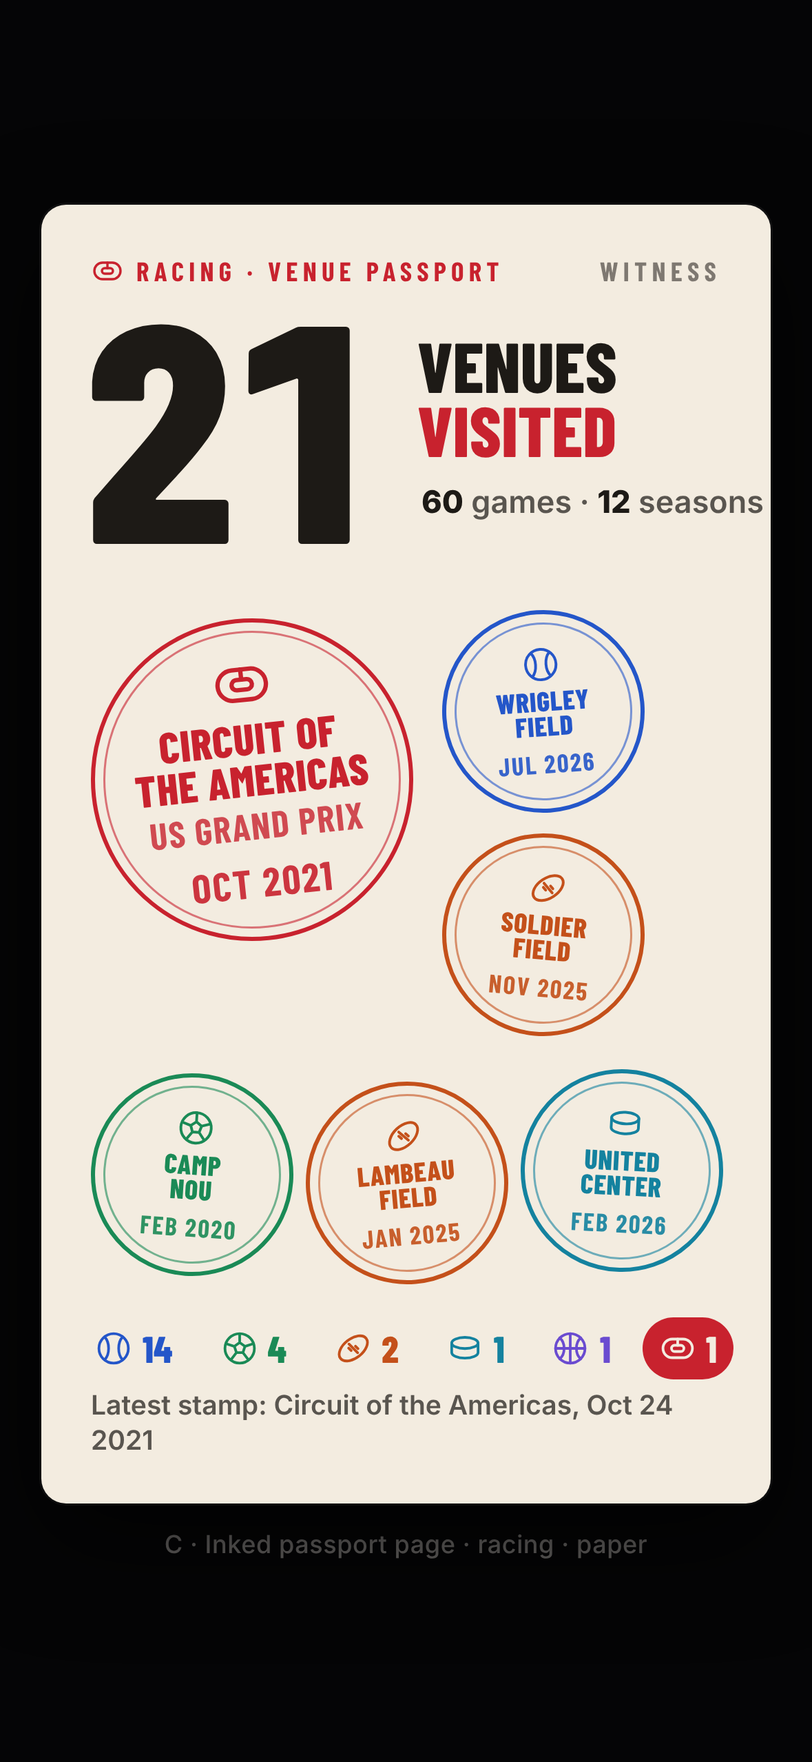
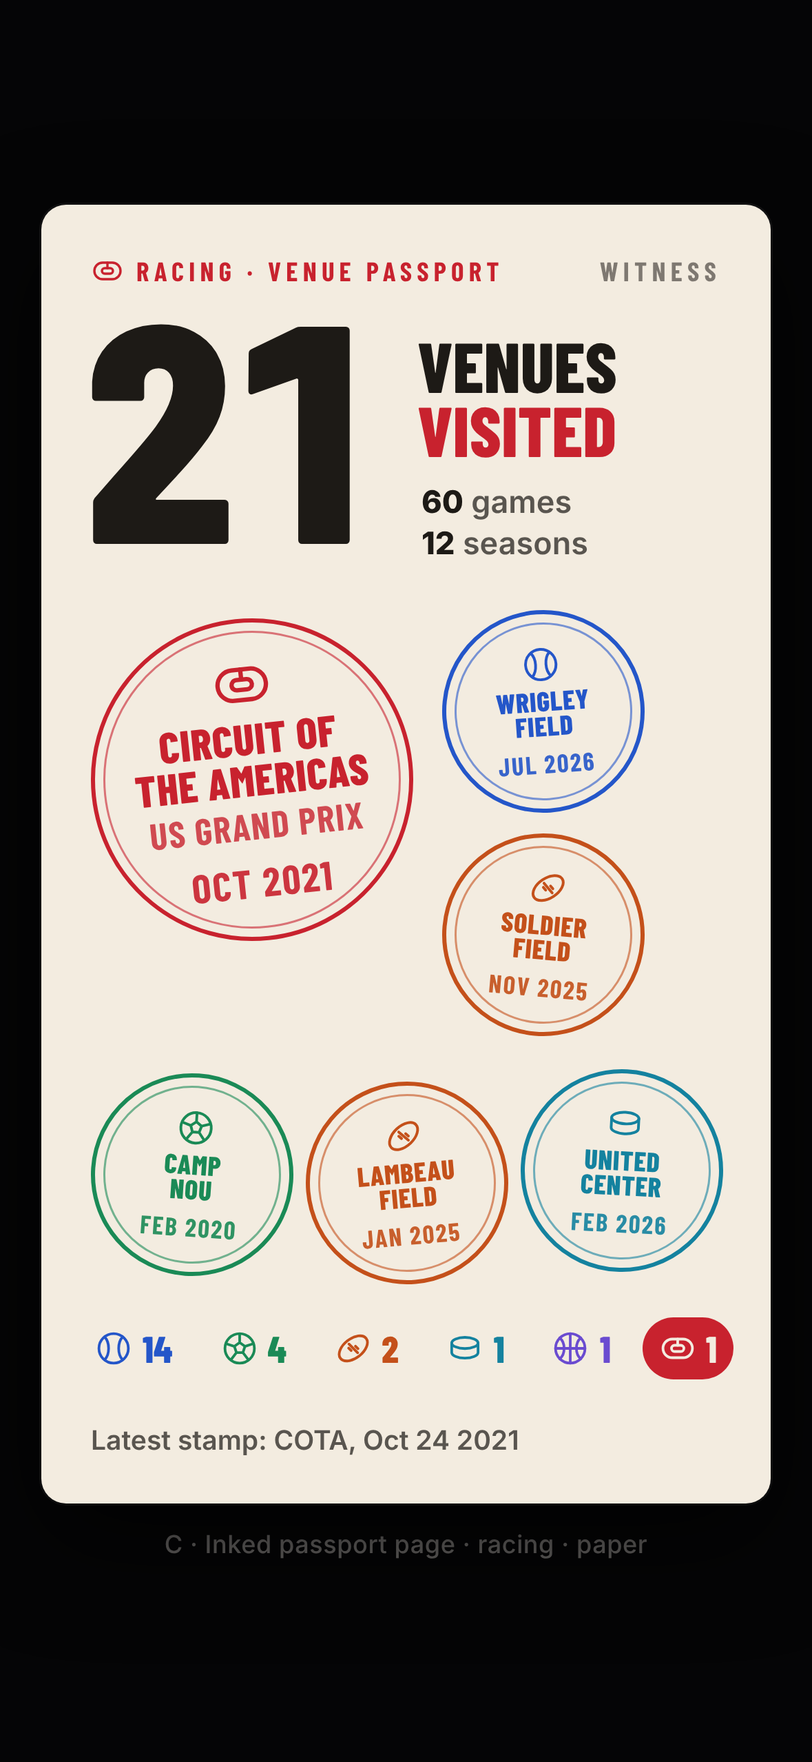
App Store screens: fix the last step and apply the clean status bar after the simulator is ready
Claude-Session: https://claude.ai/code/session_01YKCsRGYnDsF5Pryete24Wa

diff --git a/mockups/share-variants/features/passport2/v3-basketball-chips-dark.html b/mockups/share-variants/features/passport2/v3-basketball-chips-dark.html
@@ -26,18 +26,18 @@ body.phone{display:flex;flex-direction:column;align-items:center;justify-content
 
 .card{background:var(--bg);color:var(--fg)}
 .top{color:var(--mut)} .top .sp{color:var(--a)}
-.big{position:absolute;left:18px;top:46px;font:800 150px/.8 var(--f-cond);letter-spacing:-6px;font-variant-numeric:tabular-nums}
-.of{position:absolute;left:182px;top:62px;font:800 34px/.92 var(--f-cond);text-transform:uppercase}
+.big{position:absolute;left:18px;top:50px;font:800 118px/.8 var(--f-cond);letter-spacing:-5px;font-variant-numeric:tabular-nums}
+.of{position:absolute;left:150px;top:54px;font:800 30px/.92 var(--f-cond);text-transform:uppercase}
 .of span{color:var(--a)}
-.gm{position:absolute;left:184px;top:134px;font:600 15px/1.3 var(--f-ui);color:var(--mut2)}
+.gm{position:absolute;left:152px;top:116px;font:600 14px/1.3 var(--f-ui);color:var(--mut2)}
 .gm b{color:var(--fg)}
-.ft{position:absolute;left:18px;right:18px;top:190px;border-radius:12px;background:var(--a);color:var(--on);padding:14px 16px;display:flex;gap:14px;align-items:center}
+.ft{position:absolute;left:18px;right:18px;top:166px;border-radius:12px;background:var(--a);color:var(--on);padding:12px 16px;display:flex;gap:14px;align-items:center}
 .ft .ic{font-size:44px;stroke-width:1.5}
 .ft .e{font:700 12px/1 var(--f-cond);letter-spacing:2.2px;text-transform:uppercase;opacity:.75}
-.ft .n{font:800 30px/1 var(--f-cond);text-transform:uppercase;margin:6px 0 5px}
-.ft .r{font:700 14px/1.3 var(--f-ui)}
-.chips{position:absolute;left:18px;right:18px;top:312px;display:flex;flex-wrap:wrap;gap:6px 5px}
-.chip{display:flex;align-items:center;gap:5px;height:28px;padding:0 9px 0 7px;border-radius:7px;background:var(--cb);color:var(--fg);font:700 14.5px/1 var(--f-cond);letter-spacing:.5px;text-transform:uppercase;box-shadow:inset 0 0 0 1.2px var(--cc);white-space:nowrap}
+.ft .n{font:800 28px/1 var(--f-cond);text-transform:uppercase;margin:5px 0 4px}
+.ft .r{font:700 13.5px/1.3 var(--f-ui)}
+.chips{position:absolute;left:18px;right:18px;top:288px;display:flex;flex-wrap:wrap;gap:6px 5px}
+.chip{display:flex;align-items:center;gap:5px;height:26px;padding:0 8px 0 6px;border-radius:7px;background:var(--cb);color:var(--fg);font:700 14px/1 var(--f-cond);letter-spacing:.4px;text-transform:uppercase;box-shadow:inset 0 0 0 1.2px var(--cc);white-space:nowrap}
 .chip .ic{font-size:15px;color:var(--cc)}
 .chip.pri{background:var(--cc);color:var(--on)}.chip.pri .ic{color:var(--on)}
 .foot{position:absolute;left:24px;right:24px;bottom:22px;display:flex;justify-content:space-between;align-items:flex-end;font:600 13px/1.3 var(--f-ui);color:var(--mut2)}
@@ -55,10 +55,10 @@ body.phone{display:flex;flex-direction:column;align-items:center;justify-content
 <div class="card" style="--a:#a78bfa;--bg:#0a0a0c;--fg:#fff;--mut:rgba(255,255,255,.6);--mut2:rgba(255,255,255,.72);--on:#0a0a0c">
 <div class="top"><span class="sp"><svg class="ic"><use href="#i-basketball"/></svg>Basketball · Venue passport</span><span>Witness</span></div>
 <div class="big">21</div><div class="of">Venues<br><span>visited</span></div>
-<div class="gm"><b>60</b> games · <b>12</b> seasons</div>
+<div class="gm"><b>60</b> games<br><b>12</b> seasons</div>
 <div class="ft"><svg class="ic"><use href="#i-basketball"/></svg><div><div class="e">Latest basketball stamp</div><div class="n">United Center</div><div class="r">Bulls 112, Heat 109<br>Chicago · Feb 15 2026</div></div></div>
 <div class="chips"><span class="chip" style="--cc:#4d8dff;--cb:#4d8dff29"><svg class="ic" style="color:#4d8dff"><use href="#i-baseball"/></svg>Wrigley Field</span><span class="chip" style="--cc:#4d8dff;--cb:#4d8dff29"><svg class="ic" style="color:#4d8dff"><use href="#i-baseball"/></svg>Rate Field</span><span class="chip" style="--cc:#4d8dff;--cb:#4d8dff29"><svg class="ic" style="color:#4d8dff"><use href="#i-baseball"/></svg>American Family Field</span><span class="chip" style="--cc:#4d8dff;--cb:#4d8dff29"><svg class="ic" style="color:#4d8dff"><use href="#i-baseball"/></svg>Busch Stadium</span><span class="chip" style="--cc:#4d8dff;--cb:#4d8dff29"><svg class="ic" style="color:#4d8dff"><use href="#i-baseball"/></svg>Target Field</span><span class="chip" style="--cc:#4d8dff;--cb:#4d8dff29"><svg class="ic" style="color:#4d8dff"><use href="#i-baseball"/></svg>Fenway Park</span><span class="chip" style="--cc:#4d8dff;--cb:#4d8dff29"><svg class="ic" style="color:#4d8dff"><use href="#i-baseball"/></svg>Comerica Park</span><span class="chip" style="--cc:#4d8dff;--cb:#4d8dff29"><svg class="ic" style="color:#4d8dff"><use href="#i-baseball"/></svg>Progressive Field</span><span class="chip" style="--cc:#4d8dff;--cb:#4d8dff29"><svg class="ic" style="color:#4d8dff"><use href="#i-baseball"/></svg>PNC Park</span><span class="chip" style="--cc:#4d8dff;--cb:#4d8dff29"><svg class="ic" style="color:#4d8dff"><use href="#i-baseball"/></svg>Kauffman Stadium</span><span class="chip" style="--cc:#4d8dff;--cb:#4d8dff29"><svg class="ic" style="color:#4d8dff"><use href="#i-baseball"/></svg>Great American Ball Park</span><span class="chip" style="--cc:#4d8dff;--cb:#4d8dff29"><svg class="ic" style="color:#4d8dff"><use href="#i-baseball"/></svg>Yankee Stadium</span><span class="chip" style="--cc:#4d8dff;--cb:#4d8dff29"><svg class="ic" style="color:#4d8dff"><use href="#i-baseball"/></svg>Dodger Stadium</span><span class="chip" style="--cc:#4d8dff;--cb:#4d8dff29"><svg class="ic" style="color:#4d8dff"><use href="#i-baseball"/></svg>Oracle Park</span><span class="chip" style="--cc:#2fc27d;--cb:#2fc27d29"><svg class="ic" style="color:#2fc27d"><use href="#i-soccer"/></svg>Signal Iduna Park</span><span class="chip" style="--cc:#2fc27d;--cb:#2fc27d29"><svg class="ic" style="color:#2fc27d"><use href="#i-soccer"/></svg>Camp Nou</span><span class="chip" style="--cc:#2fc27d;--cb:#2fc27d29"><svg class="ic" style="color:#2fc27d"><use href="#i-soccer"/></svg>Bernabéu</span><span class="chip" style="--cc:#f0702e;--cb:#f0702e29"><svg class="ic" style="color:#f0702e"><use href="#i-football"/></svg><svg class="ic" style="color:#2fc27d"><use href="#i-soccer"/></svg>Soldier Field</span><span class="chip" style="--cc:#f0702e;--cb:#f0702e29"><svg class="ic" style="color:#f0702e"><use href="#i-football"/></svg>Lambeau Field</span><span class="chip" style="--cc:#ff4a55;--cb:#ff4a5529"><svg class="ic" style="color:#ff4a55"><use href="#i-racing"/></svg>COTA</span></div>
-<div class="foot"><span>Marked by sport, 14 baseball, 4 soccer, 2 football</span><span class="w"></span></div></div>
+</div>
 <div class="cap">B · Grouped venue stamps · basketball · dark</div>
 <script src="../../../kit/kit.js"></script>
 </body></html>

diff --git a/mockups/share-variants/features/passport2/v4-hockey-chips-paper.html b/mockups/share-variants/features/passport2/v4-hockey-chips-paper.html
@@ -26,18 +26,18 @@ body.phone{display:flex;flex-direction:column;align-items:center;justify-content
 
 .card{background:var(--bg);color:var(--fg)}
 .top{color:var(--mut)} .top .sp{color:var(--a)}
-.big{position:absolute;left:18px;top:46px;font:800 150px/.8 var(--f-cond);letter-spacing:-6px;font-variant-numeric:tabular-nums}
-.of{position:absolute;left:182px;top:62px;font:800 34px/.92 var(--f-cond);text-transform:uppercase}
+.big{position:absolute;left:18px;top:50px;font:800 118px/.8 var(--f-cond);letter-spacing:-5px;font-variant-numeric:tabular-nums}
+.of{position:absolute;left:150px;top:54px;font:800 30px/.92 var(--f-cond);text-transform:uppercase}
 .of span{color:var(--a)}
-.gm{position:absolute;left:184px;top:134px;font:600 15px/1.3 var(--f-ui);color:var(--mut2)}
+.gm{position:absolute;left:152px;top:116px;font:600 14px/1.3 var(--f-ui);color:var(--mut2)}
 .gm b{color:var(--fg)}
-.ft{position:absolute;left:18px;right:18px;top:190px;border-radius:12px;background:var(--a);color:var(--on);padding:14px 16px;display:flex;gap:14px;align-items:center}
+.ft{position:absolute;left:18px;right:18px;top:166px;border-radius:12px;background:var(--a);color:var(--on);padding:12px 16px;display:flex;gap:14px;align-items:center}
 .ft .ic{font-size:44px;stroke-width:1.5}
 .ft .e{font:700 12px/1 var(--f-cond);letter-spacing:2.2px;text-transform:uppercase;opacity:.75}
-.ft .n{font:800 30px/1 var(--f-cond);text-transform:uppercase;margin:6px 0 5px}
-.ft .r{font:700 14px/1.3 var(--f-ui)}
-.chips{position:absolute;left:18px;right:18px;top:312px;display:flex;flex-wrap:wrap;gap:6px 5px}
-.chip{display:flex;align-items:center;gap:5px;height:28px;padding:0 9px 0 7px;border-radius:7px;background:var(--cb);color:var(--fg);font:700 14.5px/1 var(--f-cond);letter-spacing:.5px;text-transform:uppercase;box-shadow:inset 0 0 0 1.2px var(--cc);white-space:nowrap}
+.ft .n{font:800 28px/1 var(--f-cond);text-transform:uppercase;margin:5px 0 4px}
+.ft .r{font:700 13.5px/1.3 var(--f-ui)}
+.chips{position:absolute;left:18px;right:18px;top:288px;display:flex;flex-wrap:wrap;gap:6px 5px}
+.chip{display:flex;align-items:center;gap:5px;height:26px;padding:0 8px 0 6px;border-radius:7px;background:var(--cb);color:var(--fg);font:700 14px/1 var(--f-cond);letter-spacing:.4px;text-transform:uppercase;box-shadow:inset 0 0 0 1.2px var(--cc);white-space:nowrap}
 .chip .ic{font-size:15px;color:var(--cc)}
 .chip.pri{background:var(--cc);color:var(--on)}.chip.pri .ic{color:var(--on)}
 .foot{position:absolute;left:24px;right:24px;bottom:22px;display:flex;justify-content:space-between;align-items:flex-end;font:600 13px/1.3 var(--f-ui);color:var(--mut2)}
@@ -55,10 +55,10 @@ body.phone{display:flex;flex-direction:column;align-items:center;justify-content
 <div class="card" style="--a:#14829f;--bg:var(--paper);--fg:var(--paper-ink);--mut:rgba(29,26,22,.55);--mut2:rgba(29,26,22,.72);--on:#f3ece0">
 <div class="top"><span class="sp"><svg class="ic"><use href="#i-hockey"/></svg>Hockey · Venue passport</span><span>Witness</span></div>
 <div class="big">21</div><div class="of">Venues<br><span>visited</span></div>
-<div class="gm"><b>60</b> games · <b>12</b> seasons</div>
+<div class="gm"><b>60</b> games<br><b>12</b> seasons</div>
 <div class="ft"><svg class="ic"><use href="#i-hockey"/></svg><div><div class="e">Latest hockey stamp</div><div class="n">United Center</div><div class="r">Blackhawks 4, Blues 1<br>Chicago · Mar 2 2025</div></div></div>
 <div class="chips"><span class="chip" style="--cc:#2456c9;--cb:#2456c91f"><svg class="ic" style="color:#2456c9"><use href="#i-baseball"/></svg>Wrigley Field</span><span class="chip" style="--cc:#2456c9;--cb:#2456c91f"><svg class="ic" style="color:#2456c9"><use href="#i-baseball"/></svg>Rate Field</span><span class="chip" style="--cc:#2456c9;--cb:#2456c91f"><svg class="ic" style="color:#2456c9"><use href="#i-baseball"/></svg>American Family Field</span><span class="chip" style="--cc:#2456c9;--cb:#2456c91f"><svg class="ic" style="color:#2456c9"><use href="#i-baseball"/></svg>Busch Stadium</span><span class="chip" style="--cc:#2456c9;--cb:#2456c91f"><svg class="ic" style="color:#2456c9"><use href="#i-baseball"/></svg>Target Field</span><span class="chip" style="--cc:#2456c9;--cb:#2456c91f"><svg class="ic" style="color:#2456c9"><use href="#i-baseball"/></svg>Fenway Park</span><span class="chip" style="--cc:#2456c9;--cb:#2456c91f"><svg class="ic" style="color:#2456c9"><use href="#i-baseball"/></svg>Comerica Park</span><span class="chip" style="--cc:#2456c9;--cb:#2456c91f"><svg class="ic" style="color:#2456c9"><use href="#i-baseball"/></svg>Progressive Field</span><span class="chip" style="--cc:#2456c9;--cb:#2456c91f"><svg class="ic" style="color:#2456c9"><use href="#i-baseball"/></svg>PNC Park</span><span class="chip" style="--cc:#2456c9;--cb:#2456c91f"><svg class="ic" style="color:#2456c9"><use href="#i-baseball"/></svg>Kauffman Stadium</span><span class="chip" style="--cc:#2456c9;--cb:#2456c91f"><svg class="ic" style="color:#2456c9"><use href="#i-baseball"/></svg>Great American Ball Park</span><span class="chip" style="--cc:#2456c9;--cb:#2456c91f"><svg class="ic" style="color:#2456c9"><use href="#i-baseball"/></svg>Yankee Stadium</span><span class="chip" style="--cc:#2456c9;--cb:#2456c91f"><svg class="ic" style="color:#2456c9"><use href="#i-baseball"/></svg>Dodger Stadium</span><span class="chip" style="--cc:#2456c9;--cb:#2456c91f"><svg class="ic" style="color:#2456c9"><use href="#i-baseball"/></svg>Oracle Park</span><span class="chip" style="--cc:#1a8a56;--cb:#1a8a561f"><svg class="ic" style="color:#1a8a56"><use href="#i-soccer"/></svg>Signal Iduna Park</span><span class="chip" style="--cc:#1a8a56;--cb:#1a8a561f"><svg class="ic" style="color:#1a8a56"><use href="#i-soccer"/></svg>Camp Nou</span><span class="chip" style="--cc:#1a8a56;--cb:#1a8a561f"><svg class="ic" style="color:#1a8a56"><use href="#i-soccer"/></svg>Bernabéu</span><span class="chip" style="--cc:#c4501a;--cb:#c4501a1f"><svg class="ic" style="color:#c4501a"><use href="#i-football"/></svg><svg class="ic" style="color:#1a8a56"><use href="#i-soccer"/></svg>Soldier Field</span><span class="chip" style="--cc:#c4501a;--cb:#c4501a1f"><svg class="ic" style="color:#c4501a"><use href="#i-football"/></svg>Lambeau Field</span><span class="chip" style="--cc:#c8222e;--cb:#c8222e1f"><svg class="ic" style="color:#c8222e"><use href="#i-racing"/></svg>COTA</span></div>
-<div class="foot"><span>Marked by sport, 14 baseball, 4 soccer, 2 football</span><span class="w"></span></div></div>
+</div>
 <div class="cap">B · Grouped venue stamps · hockey · paper</div>
 <script src="../../../kit/kit.js"></script>
 </body></html>

diff --git a/mockups/share-variants/features/passport2/v6-mixed-inked-navy.html b/mockups/share-variants/features/passport2/v6-mixed-inked-navy.html
@@ -47,12 +47,12 @@ body.phone{display:flex;flex-direction:column;align-items:center;justify-content
 <symbol id="i-hockey" viewBox="0 0 24 24"><ellipse cx="12" cy="8.5" rx="8.5" ry="3.6"/><path d="M3.5 8.5v6.2c0 2 3.8 3.6 8.5 3.6s8.5-1.6 8.5-3.6V8.5"/></symbol>
 <symbol id="i-racing" viewBox="0 0 24 24"><rect x="2.5" y="6" width="19" height="12" rx="6"/><rect x="8" y="10" width="8" height="4" rx="2"/><path d="M12 6v4"/></symbol>
 </defs></svg>
-<div class="card" style="--a:#4d8dff;--bg:#0d1a33;--fg:#f4e7c0;--mut:rgba(232,196,106,.8);--mut2:rgba(244,231,192,.8)"><div class="frame"></div>
-<div class="top"><span class="sp"><svg class="ic"><use href="#i-baseball"/></svg>Baseball · Venue passport</span><span>Witness</span></div>
+<div class="card" style="--a:#e8c46a;--bg:#0d1a33;--fg:#f4e7c0;--mut:rgba(232,196,106,.8);--mut2:rgba(244,231,192,.8)"><div class="frame"></div>
+<div class="top"><span class="sp">All sports · Venue passport</span><span>Witness</span></div>
 <div class="big">21</div><div class="of">Venues<br><span>visited</span></div>
-<div class="gm"><b>60</b> games · <b>12</b> seasons</div>
+<div class="gm"><b>60</b> games<br><b>12</b> seasons</div>
 <div class="st" style="--d:156px;--k:#4d8dff;transform:rotate(-6deg);position:absolute;left:24px;top:200px;"><svg class="ic"><use href="#i-baseball"/></svg><b>Wrigley<br>Field</b><u>18 games</u><i>2014 – 2026</i></div><div class="st" style="--d:98px;--k:#f0702e;transform:rotate(-4deg);position:absolute;left:194px;top:196px;"><svg class="ic"><use href="#i-football"/></svg><b>Soldier<br>Field</b><i>13 games</i></div><div class="st" style="--d:98px;--k:#3cc3ee;transform:rotate(5deg);position:absolute;left:194px;top:304px;"><svg class="ic"><use href="#i-hockey"/></svg><b>United<br>Center</b><i>11 games</i></div><div class="st" style="--d:98px;--k:#2fc27d;transform:rotate(4deg);position:absolute;left:24px;top:420px;"><svg class="ic"><use href="#i-soccer"/></svg><b>Signal<br>Iduna Park</b><i>Nov 2017</i></div><div class="st" style="--d:98px;--k:#2fc27d;transform:rotate(-5deg);position:absolute;left:128px;top:424px;"><svg class="ic"><use href="#i-soccer"/></svg><b>Camp<br>Nou</b><i>Feb 2020</i></div><div class="st" style="--d:98px;--k:#ff4a55;transform:rotate(3deg);position:absolute;left:232px;top:418px;"><svg class="ic"><use href="#i-racing"/></svg><b>Circuit of<br>the Americas</b><i>Oct 2021</i></div>
-<div class="lg"><div class="leg"><div class="pr" style="--c:#4d8dff;--on:#0a0a0c"><svg class="ic"><use href="#i-baseball"/></svg>14</div><div style="--c:#2fc27d;--on:#0a0a0c"><svg class="ic"><use href="#i-soccer"/></svg>4</div><div style="--c:#f0702e;--on:#0a0a0c"><svg class="ic"><use href="#i-football"/></svg>2</div><div style="--c:#3cc3ee;--on:#0a0a0c"><svg class="ic"><use href="#i-hockey"/></svg>1</div><div style="--c:#a78bfa;--on:#0a0a0c"><svg class="ic"><use href="#i-basketball"/></svg>1</div><div style="--c:#ff4a55;--on:#0a0a0c"><svg class="ic"><use href="#i-racing"/></svg>1</div></div></div>
+<div class="lg"><div class="leg"><div style="--c:#4d8dff;--on:#0a0a0c"><svg class="ic"><use href="#i-baseball"/></svg>14</div><div style="--c:#2fc27d;--on:#0a0a0c"><svg class="ic"><use href="#i-soccer"/></svg>4</div><div style="--c:#f0702e;--on:#0a0a0c"><svg class="ic"><use href="#i-football"/></svg>2</div><div style="--c:#3cc3ee;--on:#0a0a0c"><svg class="ic"><use href="#i-hockey"/></svg>1</div><div style="--c:#a78bfa;--on:#0a0a0c"><svg class="ic"><use href="#i-basketball"/></svg>1</div><div style="--c:#ff4a55;--on:#0a0a0c"><svg class="ic"><use href="#i-racing"/></svg>1</div></div></div>
 <div class="foot"><span>Six sports, 21 venues, one passport</span></div></div>
 <div class="cap">C · Inked passport page · mixed sports · navy foil</div>
 <script src="../../../kit/kit.js"></script>

diff --git a/mockups/share-variants/features/passport2/v5-racing-inked-paper.html b/mockups/share-variants/features/passport2/v5-racing-inked-paper.html
@@ -50,10 +50,10 @@ body.phone{display:flex;flex-direction:column;align-items:center;justify-content
 <div class="card" style="--a:#c8222e;--bg:var(--paper);--fg:var(--paper-ink);--mut:rgba(29,26,22,.55);--mut2:rgba(29,26,22,.72)">
 <div class="top"><span class="sp"><svg class="ic"><use href="#i-racing"/></svg>Racing · Venue passport</span><span>Witness</span></div>
 <div class="big">21</div><div class="of">Venues<br><span>visited</span></div>
-<div class="gm"><b>60</b> games · <b>12</b> seasons</div>
+<div class="gm"><b>60</b> games<br><b>12</b> seasons</div>
 <div class="st" style="--d:156px;--k:#c8222e;transform:rotate(-6deg);position:absolute;left:24px;top:200px;"><svg class="ic"><use href="#i-racing"/></svg><b>Circuit of<br>the Americas</b><u>US Grand Prix</u><i>Oct 2021</i></div><div class="st" style="--d:98px;--k:#2456c9;transform:rotate(-4deg);position:absolute;left:194px;top:196px;"><svg class="ic"><use href="#i-baseball"/></svg><b>Wrigley<br>Field</b><i>Jul 2026</i></div><div class="st" style="--d:98px;--k:#c4501a;transform:rotate(5deg);position:absolute;left:194px;top:304px;"><svg class="ic"><use href="#i-football"/></svg><b>Soldier<br>Field</b><i>Nov 2025</i></div><div class="st" style="--d:98px;--k:#1a8a56;transform:rotate(4deg);position:absolute;left:24px;top:420px;"><svg class="ic"><use href="#i-soccer"/></svg><b>Camp<br>Nou</b><i>Feb 2020</i></div><div class="st" style="--d:98px;--k:#c4501a;transform:rotate(-5deg);position:absolute;left:128px;top:424px;"><svg class="ic"><use href="#i-football"/></svg><b>Lambeau<br>Field</b><i>Jan 2025</i></div><div class="st" style="--d:98px;--k:#14829f;transform:rotate(3deg);position:absolute;left:232px;top:418px;"><svg class="ic"><use href="#i-hockey"/></svg><b>United<br>Center</b><i>Feb 2026</i></div>
 <div class="lg"><div class="leg"><div style="--c:#2456c9;--on:#f3ece0"><svg class="ic"><use href="#i-baseball"/></svg>14</div><div style="--c:#1a8a56;--on:#f3ece0"><svg class="ic"><use href="#i-soccer"/></svg>4</div><div style="--c:#c4501a;--on:#f3ece0"><svg class="ic"><use href="#i-football"/></svg>2</div><div style="--c:#14829f;--on:#f3ece0"><svg class="ic"><use href="#i-hockey"/></svg>1</div><div style="--c:#6a4bd0;--on:#f3ece0"><svg class="ic"><use href="#i-basketball"/></svg>1</div><div class="pr" style="--c:#c8222e;--on:#f3ece0"><svg class="ic"><use href="#i-racing"/></svg>1</div></div></div>
-<div class="foot"><span>Latest stamp: Circuit of the Americas, Oct 24 2021</span></div></div>
+<div class="foot"><span>Latest stamp: COTA, Oct 24 2021</span></div></div>
 <div class="cap">C · Inked passport page · racing · paper</div>
 <script src="../../../kit/kit.js"></script>
 </body></html>

diff --git a/mockups/share-variants/features/passport2/v2-football-photo-paper.html b/mockups/share-variants/features/passport2/v2-football-photo-paper.html
@@ -25,16 +25,16 @@ body.phone{display:flex;flex-direction:column;align-items:center;justify-content
 .leg div.pr{background:var(--c);color:var(--on)}
 
 .card{background:var(--paper);color:var(--paper-ink)}
-.ph{position:absolute;left:14px;right:14px;top:14px;height:330px;border-radius:6px;overflow:hidden;box-shadow:0 0 0 1px rgba(29,26,22,.2)}
+.ph{position:absolute;left:14px;right:14px;top:14px;height:290px;border-radius:6px;overflow:hidden;box-shadow:0 0 0 1px rgba(29,26,22,.2)}
 .ph img{width:100%;height:100%;object-fit:cover;object-position:var(--pos)}
 .ph .tag{position:absolute;left:12px;top:12px;right:12px;display:flex;justify-content:space-between;align-items:center;font:700 13px/1 var(--f-cond);letter-spacing:2.4px;text-transform:uppercase;color:#fff;text-shadow:0 1px 8px rgba(0,0,0,.6)}
 .ph .tag .sp{display:flex;gap:6px;align-items:center}.ph .tag .ic{font-size:16px}
-.big{position:absolute;left:18px;top:340px;font:800 168px/.82 var(--f-cond);letter-spacing:-6px;font-variant-numeric:tabular-nums}
-.of{position:absolute;left:196px;top:366px;font:800 36px/.92 var(--f-cond);text-transform:uppercase}
+.big{position:absolute;left:18px;top:312px;font:800 160px/.82 var(--f-cond);letter-spacing:-6px;font-variant-numeric:tabular-nums}
+.of{position:absolute;left:190px;top:334px;font:800 36px/.92 var(--f-cond);text-transform:uppercase}
 .of span{color:var(--a);display:block}
-.gm{position:absolute;left:198px;top:440px;font:600 15px/1.3 var(--f-ui);color:rgba(29,26,22,.72)}
+.gm{position:absolute;left:192px;top:406px;font:600 15px/1.3 var(--f-ui);color:rgba(29,26,22,.72)}
 .gm b{color:var(--paper-ink)}
-.last{position:absolute;left:24px;right:24px;top:486px;display:flex;gap:14px;align-items:center;padding-top:14px;border-top:2px solid var(--paper-ink)}
+.last{position:absolute;left:24px;right:24px;top:462px;display:flex;gap:14px;align-items:center;padding-top:14px;border-top:2px solid var(--paper-ink)}
 .last .tx .e{font:700 12px/1 var(--f-cond);letter-spacing:2.2px;text-transform:uppercase;color:rgba(29,26,22,.55)}
 .last .tx .n{font:800 24px/1 var(--f-cond);text-transform:uppercase;margin:5px 0 4px}
 .last .tx .r{font:600 13.5px/1.3 var(--f-ui);color:rgba(29,26,22,.72)}

diff --git a/mockups/share-variants/features/passport2/v1-soccer-photo-night.html b/mockups/share-variants/features/passport2/v1-soccer-photo-night.html
@@ -26,15 +26,15 @@ body.phone{display:flex;flex-direction:column;align-items:center;justify-content
 
 .card{background:#0a0a0c;color:#fff}
 .card img{position:absolute;left:0;top:0;width:100%;height:410px;object-fit:cover;object-position:var(--pos)}
-.card .sh{position:absolute;left:0;right:0;top:0;height:410px;background:linear-gradient(180deg,rgba(10,10,12,.55) 0%,rgba(10,10,12,0) 22%,rgba(10,10,12,.2) 50%,#0a0a0c 98%)}
+.card .sh{position:absolute;left:0;right:0;top:0;height:410px;background:linear-gradient(180deg,rgba(10,10,12,.85) 0%,rgba(10,10,12,.35) 14%,rgba(10,10,12,0) 28%,rgba(10,10,12,.2) 50%,#0a0a0c 98%)}
 .top{color:rgba(255,255,255,.78)} .top b{color:var(--signal)}
-.top .sp{color:var(--a)}
-.big{position:absolute;left:18px;top:206px;font:800 220px/.8 var(--f-cond);letter-spacing:-8px;font-variant-numeric:tabular-nums}
-.of{position:absolute;left:206px;top:268px;font:800 38px/.92 var(--f-cond);text-transform:uppercase}
+.top .sp{color:#fff}
+.big{position:absolute;left:18px;top:232px;font:800 190px/.8 var(--f-cond);letter-spacing:-8px;font-variant-numeric:tabular-nums}
+.of{position:absolute;left:206px;top:262px;font:800 36px/.92 var(--f-cond);text-transform:uppercase}
 .of span{color:var(--a);display:block}
-.gm{position:absolute;left:208px;top:352px;font:600 15px/1.3 var(--f-ui);color:rgba(255,255,255,.75)}
+.gm{position:absolute;left:208px;top:344px;font:600 15px/1.3 var(--f-ui);color:rgba(255,255,255,.75)}
 .gm b{color:#fff}
-.last{position:absolute;left:24px;right:24px;top:424px;display:flex;gap:16px;align-items:center}
+.last{position:absolute;left:24px;right:24px;top:430px;display:flex;gap:16px;align-items:center}
 .last .tx .e{font:700 12px/1 var(--f-cond);letter-spacing:2.2px;text-transform:uppercase;color:var(--signal)}
 .last .tx .n{font:800 27px/1 var(--f-cond);text-transform:uppercase;margin:7px 0 6px}
 .last .tx .r{font:600 14px/1.35 var(--f-ui);color:rgba(255,255,255,.75)}

diff --git a/WitnessUITests/WitnessUITests.swift b/WitnessUITests/WitnessUITests.swift
@@ -505,8 +505,8 @@ final class WitnessUITests: XCTestCase {
         sleep(3)
         snap("store-07-you")
 
+        // The Timeline tab still has the game open, so the menu is right there.
         tab("Timeline")
-        tap("game-card-mlb-2016-ws5")
         XCTAssertTrue(el("game-title").waitForExistence(timeout: 8))
         tap("game-menu")
         tap("game-share")
